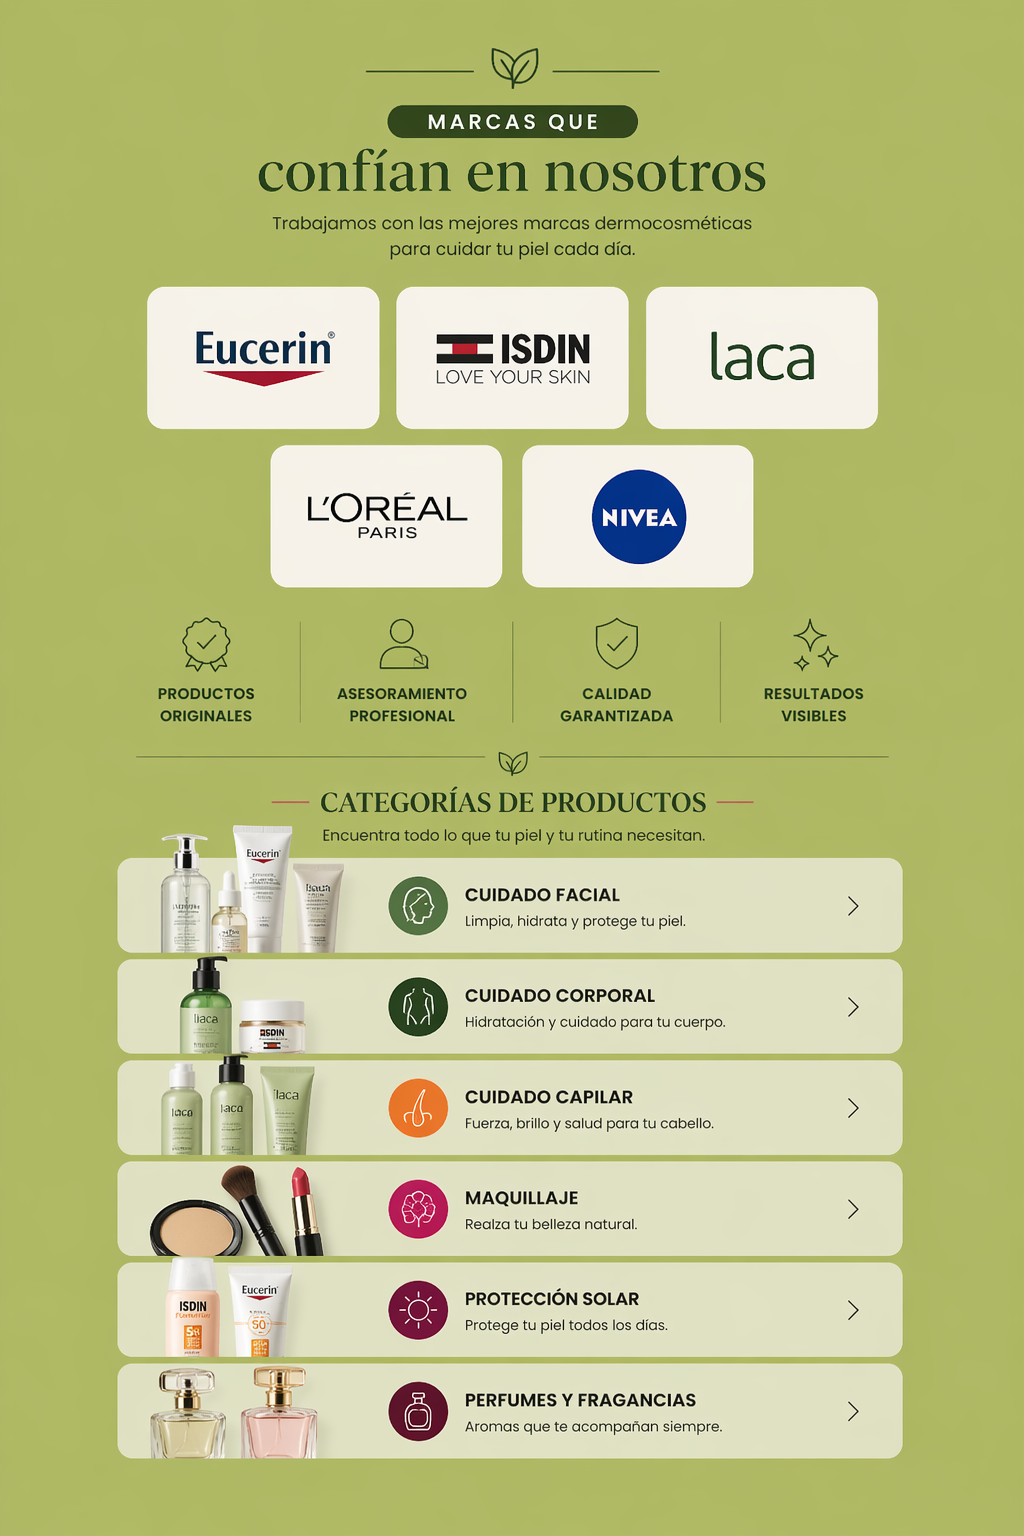
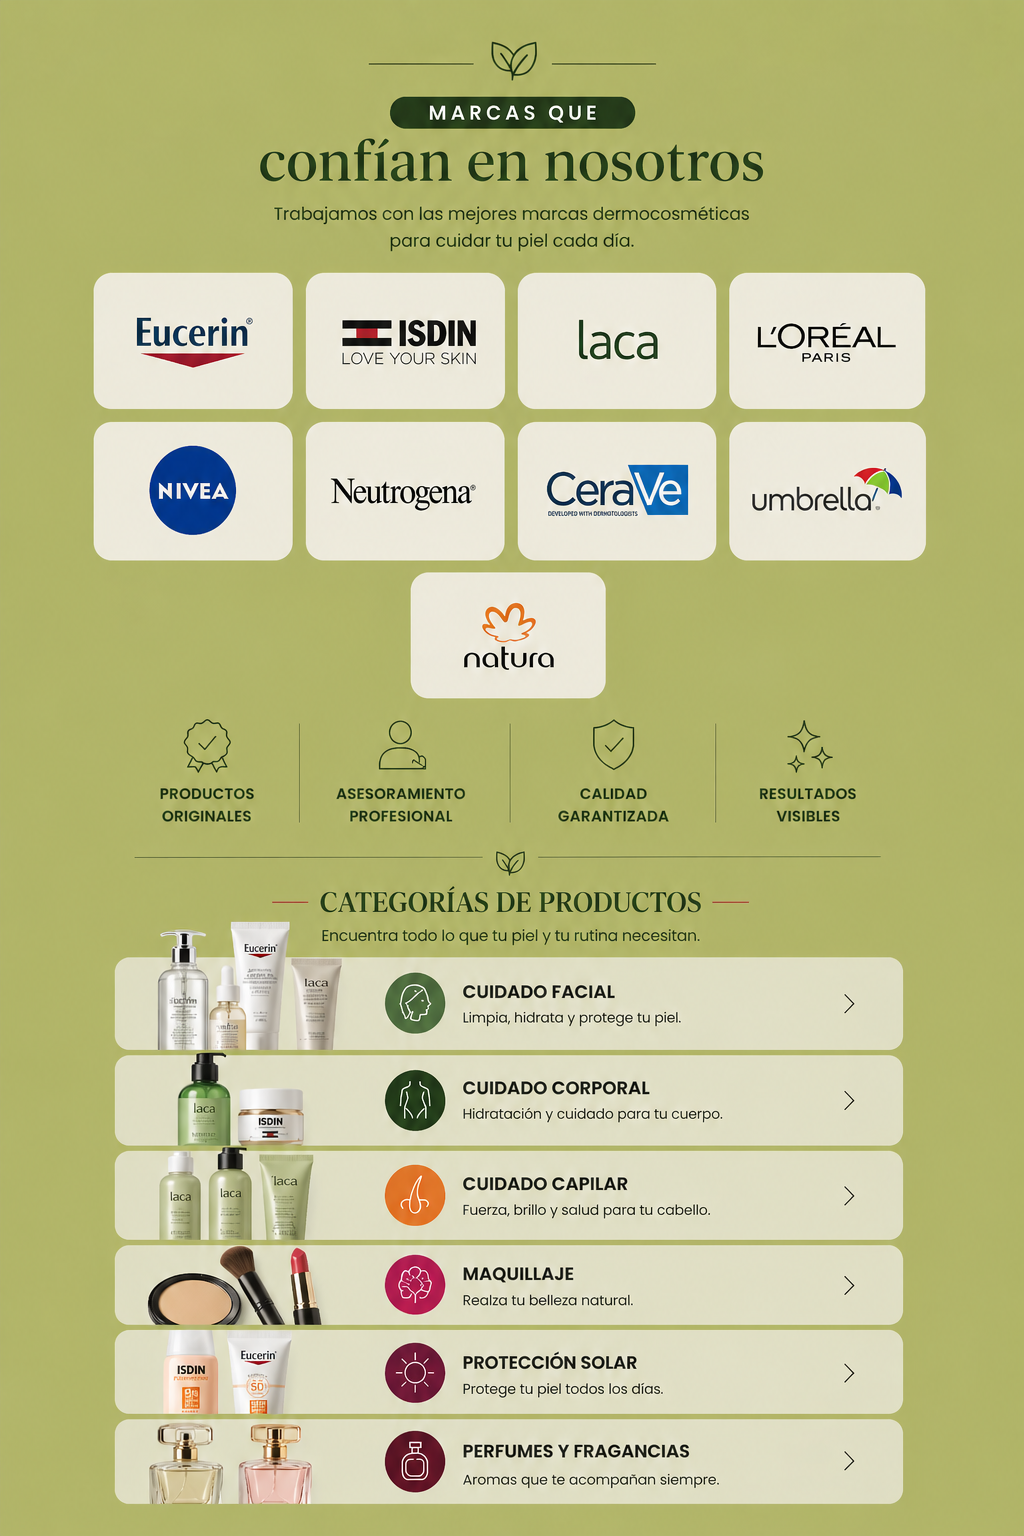
Fix mobile home: agrandar solo seccion categori4

Changed region(s): [[0.0938, 0.0312, 0.9062, 1.0]]

diff --git a/style.css b/style.css
@@ -54,12 +54,12 @@ body::before{
 }
 
 /* Botones categorías */
-.z1{ top:55.5%; }
-.z2{ top:62.1%; }
-.z3{ top:68.7%; }
-.z4{ top:75.3%; }
-.z5{ top:81.9%; }
-.z6{ top:88.4%; }
+.z1{ top:62.2%; }
+.z2{ top:68.1%; }
+.z3{ top:74.7%; }
+.z4{ top:80.3%; }
+.z5{ top:85.9%; }
+.z6{ top:91.7%; }
 
 /* Botones contacto */
 .contacto{
